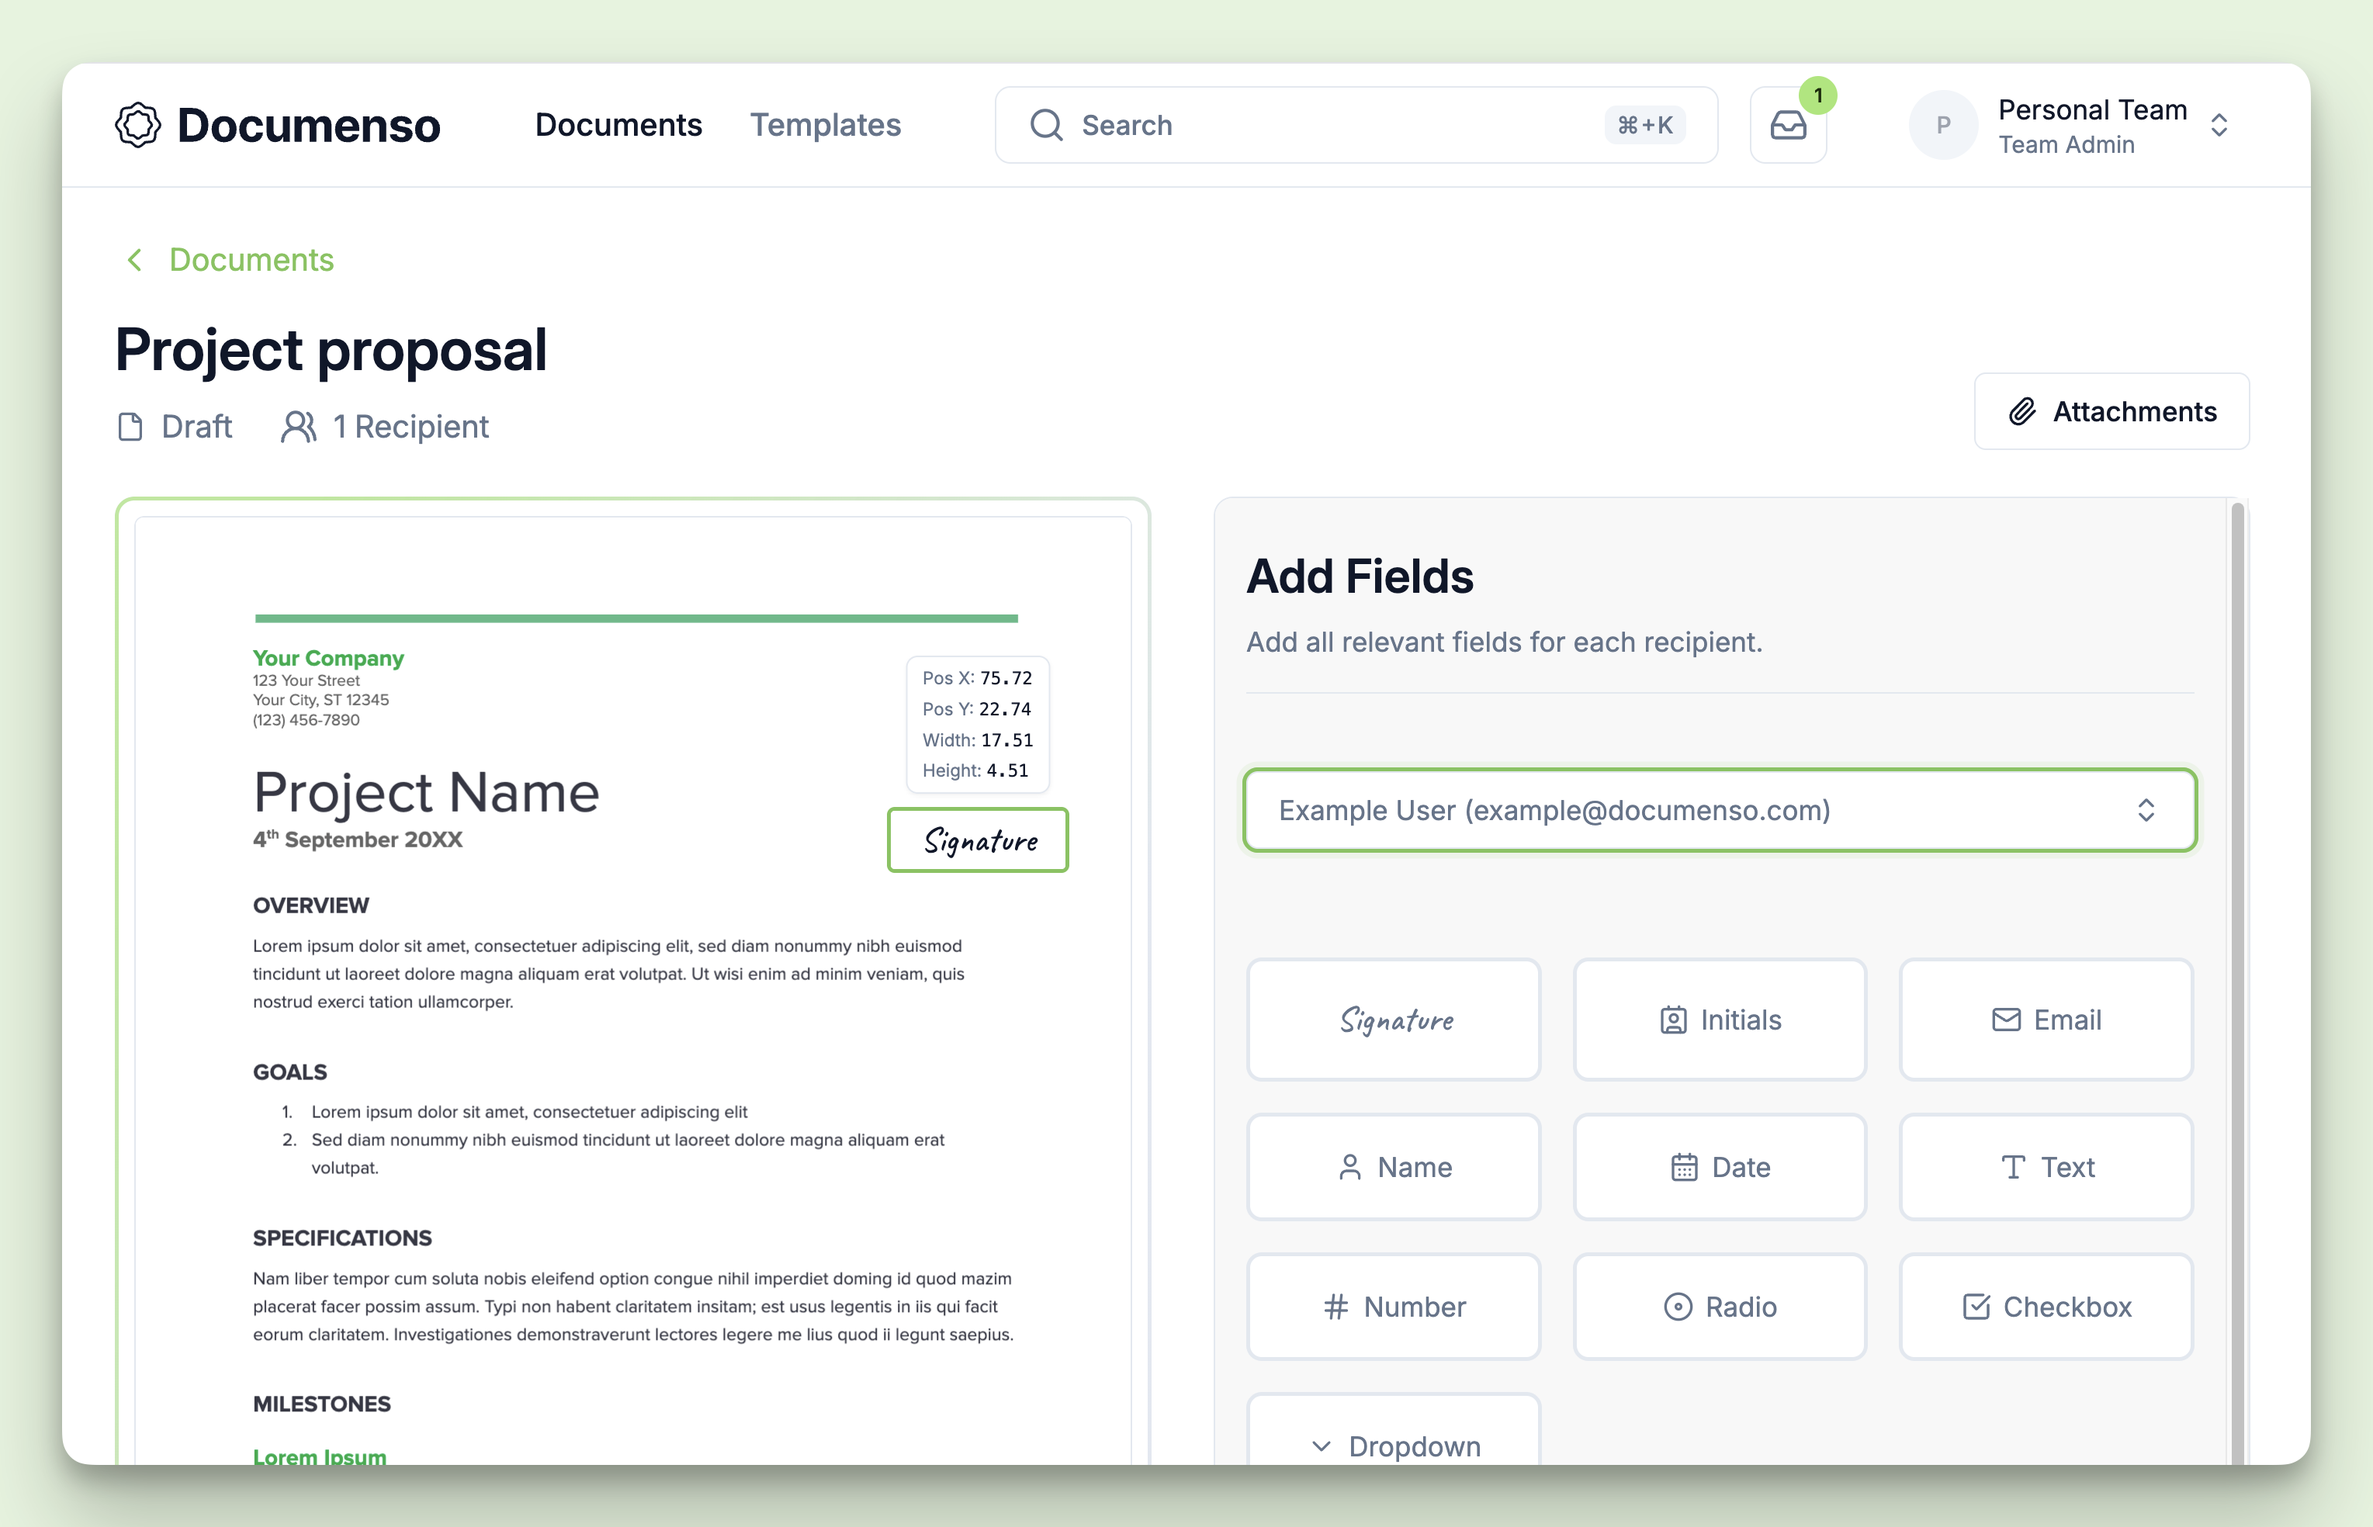
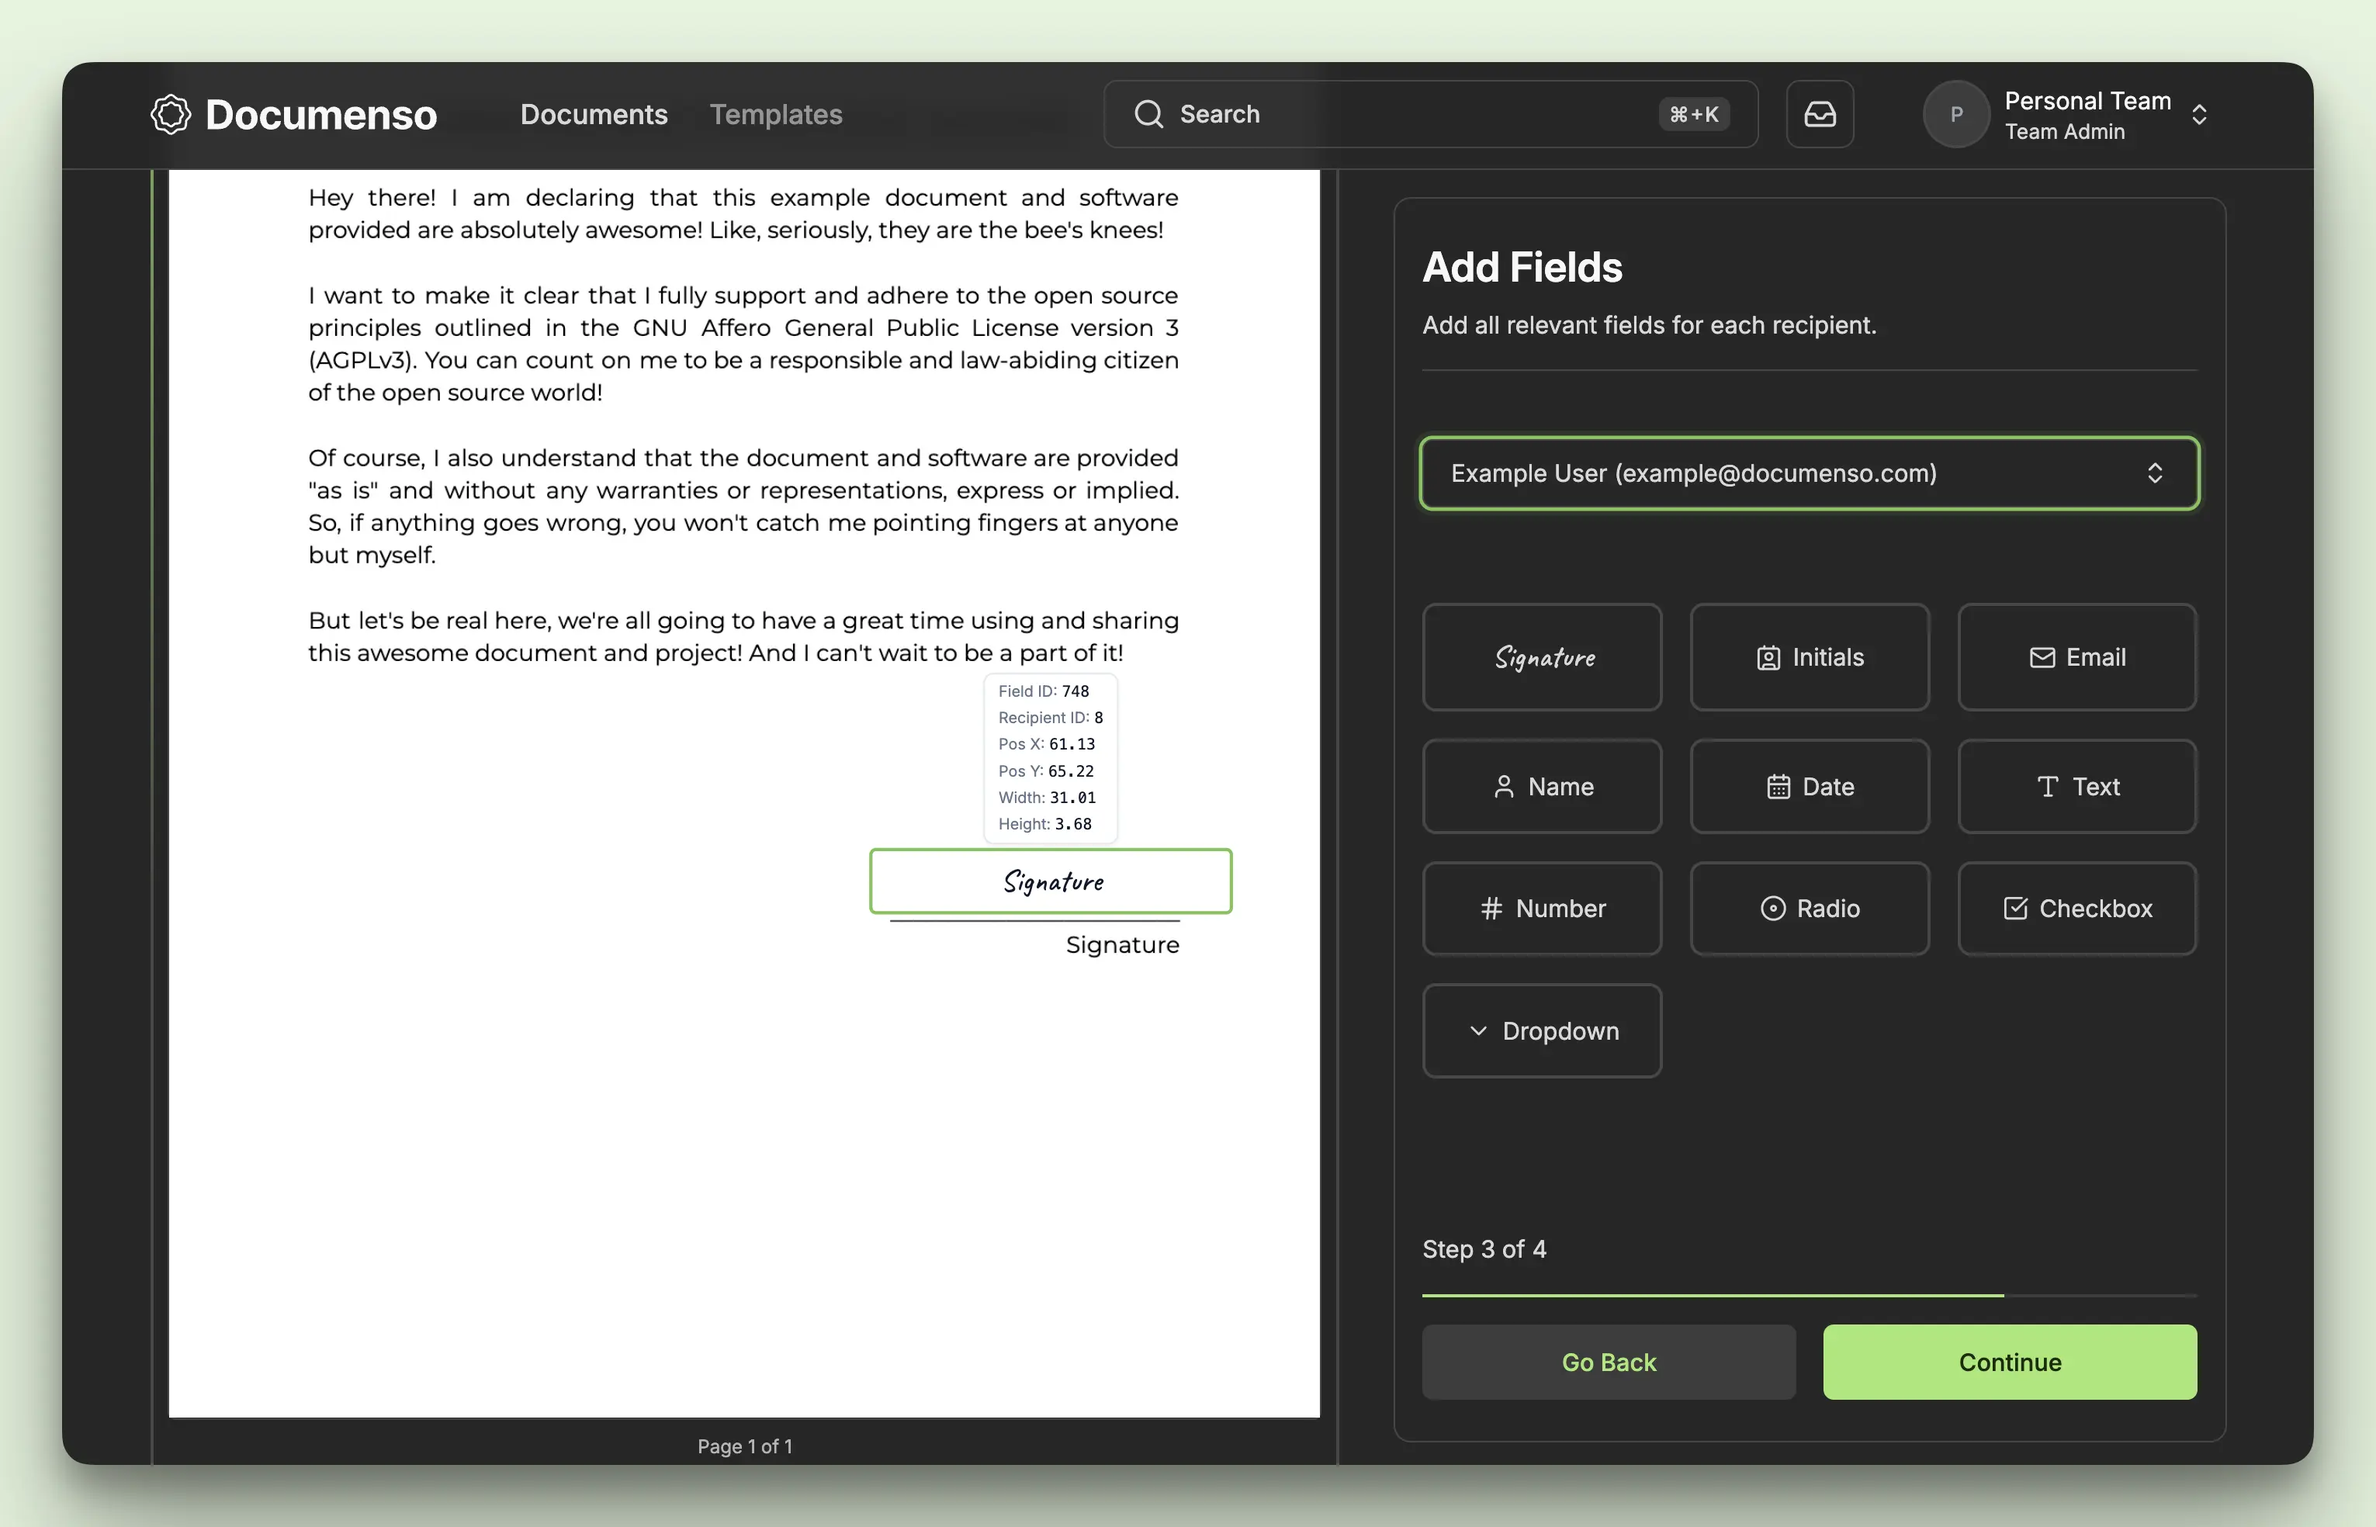
feat: display the field id in dev mode (#2658)

diff --git a/packages/ui/primitives/document-flow/field-item.tsx b/packages/ui/primitives/document-flow/field-item.tsx
@@ -333,34 +333,44 @@ const FieldItemInner = ({
         </div>
 
         {isDevMode && (
-          <div className="absolute -top-20 left-1/2 z-50 -translate-x-1/2 rounded-md border border-border bg-background/95 px-2 py-1 shadow-sm backdrop-blur-sm">
+          <div className="absolute bottom-full left-1/2 z-50 mb-1 -translate-x-1/2 rounded-md border border-border bg-background/95 px-2 py-1 shadow-sm backdrop-blur-sm">
             <div className="flex flex-col gap-0.5 text-[9px]">
+              {field.nativeId && (
+                <span>
+                  <span className="text-muted-foreground">
+                    <Trans>Field ID:</Trans>
+                  </span>{' '}
+                  <span className="font-mono text-foreground">{field.nativeId}</span>
+                </span>
+              )}
+              <span>
+                <span className="text-muted-foreground">
+                  <Trans>Recipient ID:</Trans>
+                </span>{' '}
+                <span className="font-mono text-foreground">{field.recipientId}</span>
+              </span>
               <span>
                 <span className="text-muted-foreground">
                   <Trans>Pos X:</Trans>
-                </span>
-                &nbsp;
+                </span>{' '}
                 <span className="font-mono text-foreground">{field.pageX.toFixed(2)}</span>
               </span>
               <span>
                 <span className="text-muted-foreground">
                   <Trans>Pos Y:</Trans>
-                </span>
-                &nbsp;
+                </span>{' '}
                 <span className="font-mono text-foreground">{field.pageY.toFixed(2)}</span>
               </span>
               <span>
                 <span className="text-muted-foreground">
                   <Trans>Width:</Trans>
-                </span>
-                &nbsp;
+                </span>{' '}
                 <span className="font-mono text-foreground">{field.pageWidth.toFixed(2)}</span>
               </span>
               <span>
                 <span className="text-muted-foreground">
                   <Trans>Height:</Trans>
-                </span>
-                &nbsp;
+                </span>{' '}
                 <span className="font-mono text-foreground">{field.pageHeight.toFixed(2)}</span>
               </span>
             </div>

diff --git a/apps/remix/app/components/general/envelope-editor/envelope-editor-fields-page.tsx b/apps/remix/app/components/general/envelope-editor/envelope-editor-fields-page.tsx
@@ -337,32 +337,42 @@ export const EnvelopeEditorFieldsPage = () => {
                       </h3>
 
                       <div className="space-y-2 rounded-md border border-border bg-muted/50 p-3 text-sm text-foreground">
+                        {selectedField.id && (
+                          <p>
+                            <span className="min-w-12 text-muted-foreground">
+                              <Trans>Field ID:</Trans>
+                            </span>{' '}
+                            {selectedField.id}
+                          </p>
+                        )}
+                        <p>
+                          <span className="min-w-12 text-muted-foreground">
+                            <Trans>Recipient ID:</Trans>
+                          </span>{' '}
+                          {selectedField.recipientId}
+                        </p>
                         <p>
                           <span className="min-w-12 text-muted-foreground">
                             <Trans>Pos X:</Trans>
-                          </span>
-                          &nbsp;
+                          </span>{' '}
                           {selectedField.positionX.toFixed(2)}
                         </p>
                         <p>
                           <span className="min-w-12 text-muted-foreground">
                             <Trans>Pos Y:</Trans>
-                          </span>
-                          &nbsp;
+                          </span>{' '}
                           {selectedField.positionY.toFixed(2)}
                         </p>
                         <p>
                           <span className="min-w-12 text-muted-foreground">
                             <Trans>Width:</Trans>
-                          </span>
-                          &nbsp;
+                          </span>{' '}
                           {selectedField.width.toFixed(2)}
                         </p>
                         <p>
                           <span className="min-w-12 text-muted-foreground">
                             <Trans>Height:</Trans>
-                          </span>
-                          &nbsp;
+                          </span>{' '}
                           {selectedField.height.toFixed(2)}
                         </p>
                       </div>
